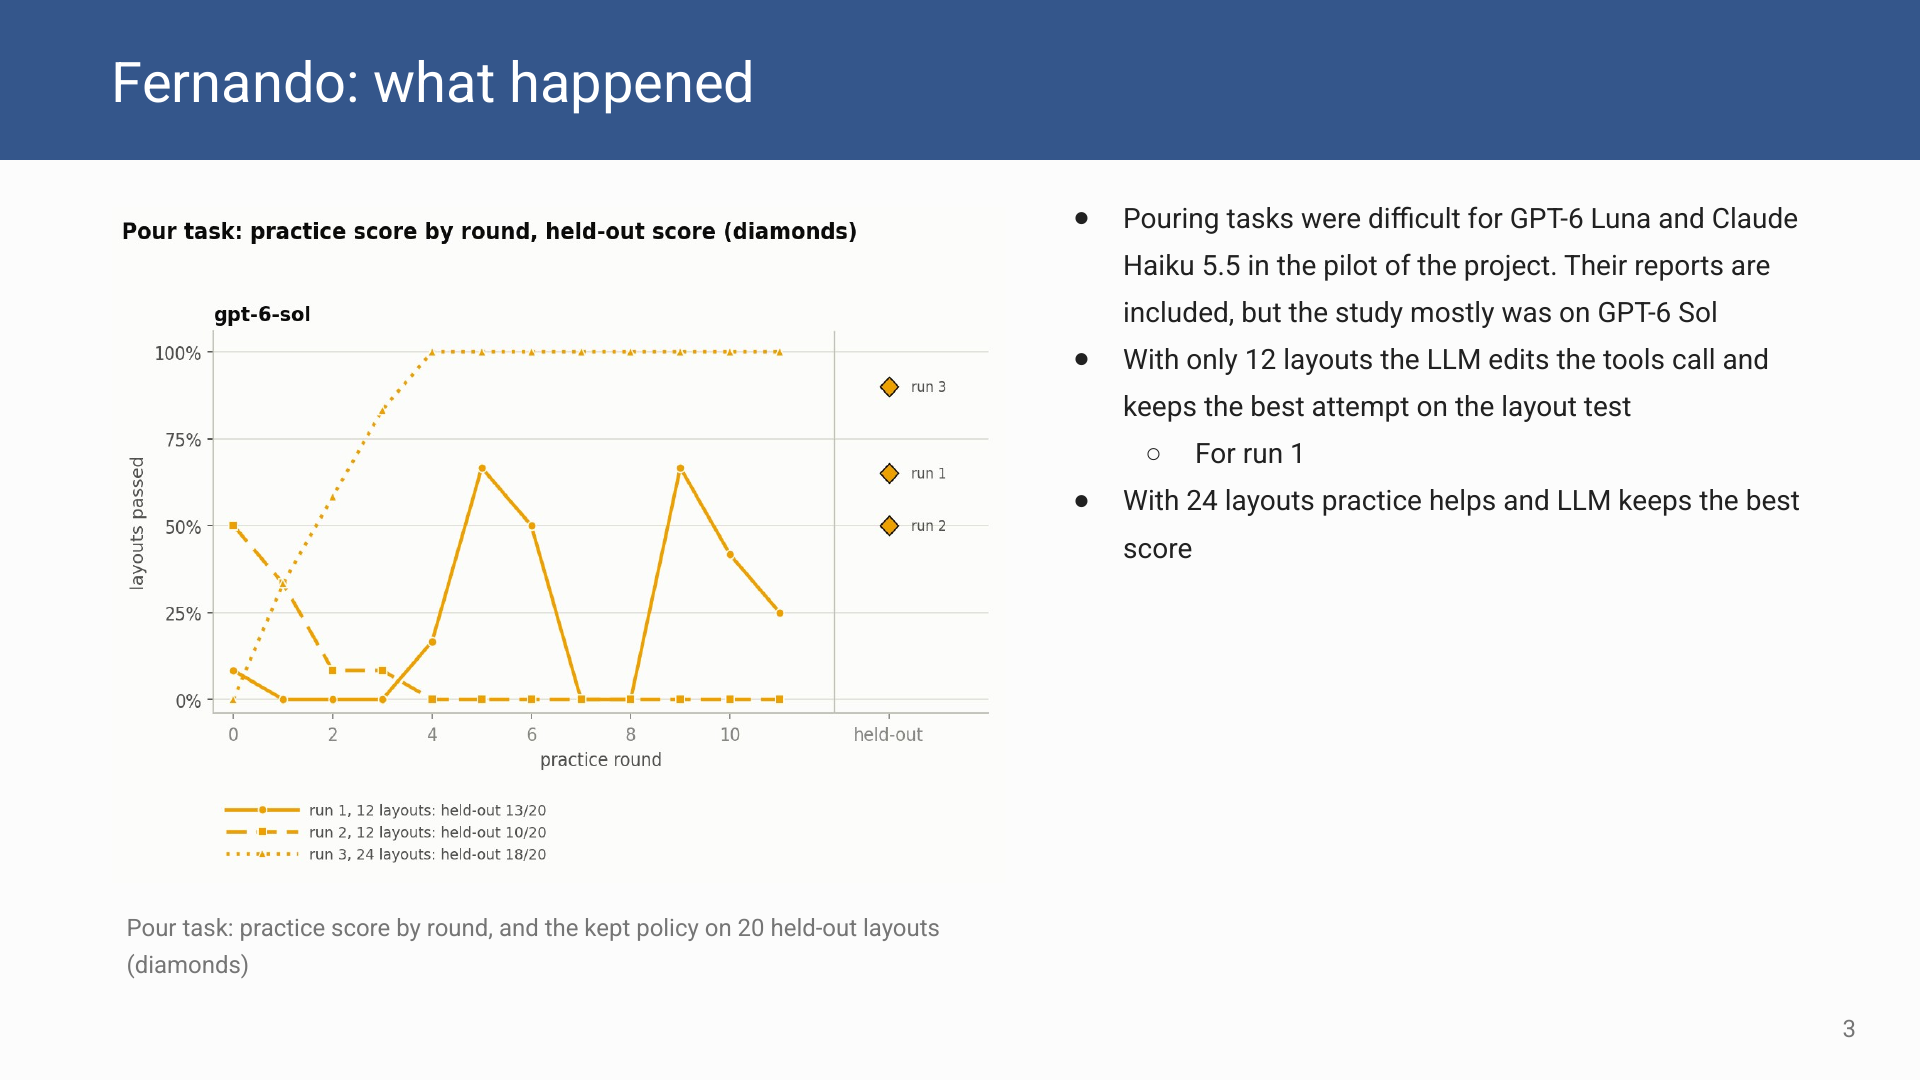
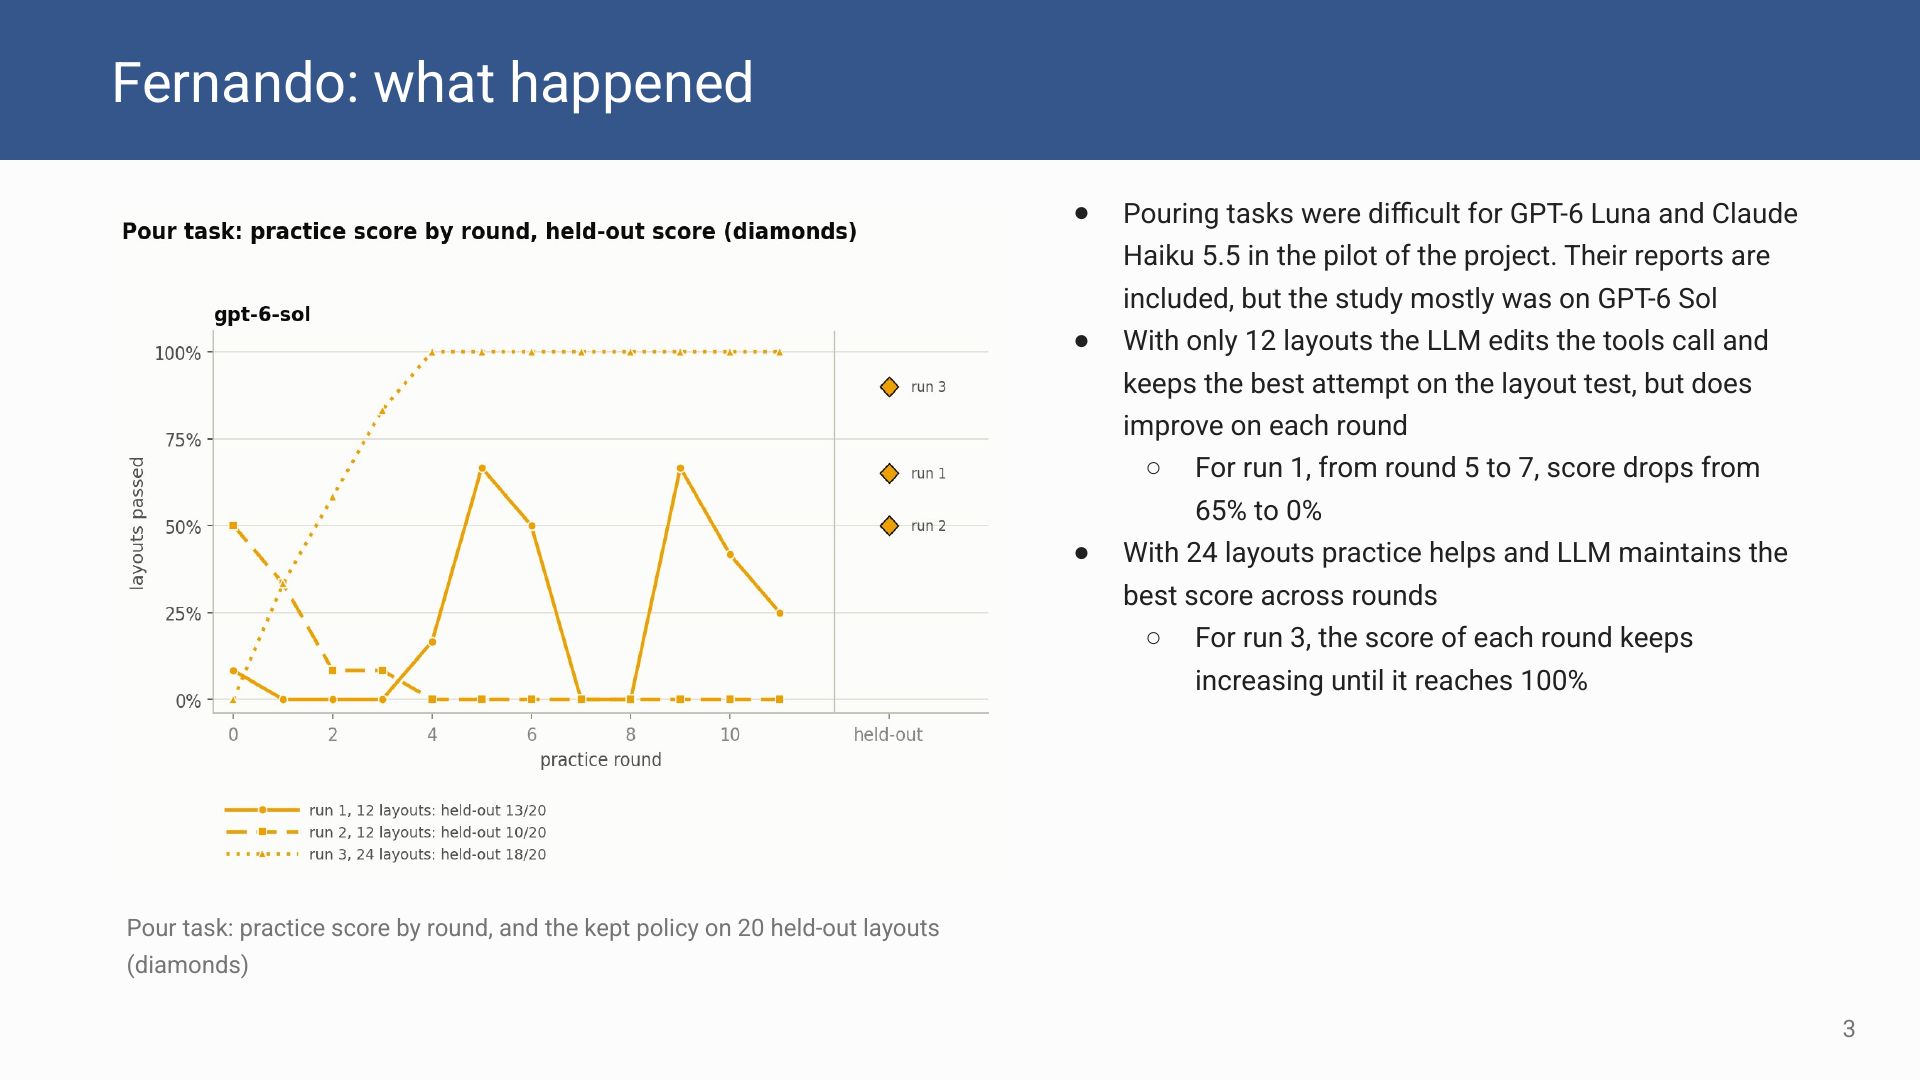
Slide 3: Fernando's new run notes; slide 8: "answers" instead of "calls"

Changed region(s): [[0.5625, 0.1833, 0.9375, 0.5194], [0.5938, 0.55, 0.875, 0.6417]]

diff --git a/index.html b/index.html
@@ -35,12 +35,12 @@ a { color: #34568B; }
 <main class="deck">
 <figure class="frame"><img class="slide" src="slides/slide-01.png?v=93a141df" alt="Slide 1. Robot Manipulation Evals Three student projects testing how well AI models handle hands-on robot work in simulation. Fernando Lerma Martinez Adyaa Khera Henry Williams A model writes the robot’s code A model directs each move A model checks each step MuJoCo, two YAM arms Isaac Sim, two YAM arms Isaac Sim, two ViperX arms Lab bench tasks: vials, snap caps, salt FLS peg transfer, a surgical skills test Pipette, plate grip and plate cart checks This is a presentation overview of three projects members of our team have worked on since coming together last month to build up our application Our experience in robotics goes greatly beyond these projects, with a healthy variety of specialties between team members, but we feel these projects are the most directly relevant as it shows our collaboration as a team You will find more detailed links for these projects at the end of the document if you are interested to look further" width="1920" height="1080"></figure>
 <figure class="frame"><img class="slide" src="slides/slide-02.png?v=3140a347" alt="Slide 2. Fernando: LLM writes the robot’s code based on feedback Can an AI model get better at a lab task by practicing? Self-evolving Code-as-policy, based on SEAR paper. The LLM model writes the program to run two simulated YAM arms, is given details of previous round as feedback It practices in 12 rounds on different layouts (variations of the same task scenario). There are 12 or 24 layouts tested on each round. Layouts are kept between rounds After the final round the program with the best score is tested once on 20 layouts it never saw Tasks: move a vial, open a snap cap, weigh out salt with both arms Setup MuJoCo 3.5, on A10 nodes of Purdue’s Gilbreth cluster Two I2RT YAM arms (MuJoCo Menagerie model) GPT-6 Luna, GPT-6 Sol, Claude Haiku 5.5 Weighing task and open a snap-cap tube, hand-written reference solution, 6× speed" width="1920" height="1080" loading="lazy"><img class="clip" src="clips/slide-02-clip-1.gif?v=2ec4eee4" alt="Two simulated YAM arms pass a vial of salt between them and pour it onto a balance" loading="lazy" style="left:64.863%;top:16.853%;width:29.166%;height:38.888%"><img class="clip" src="clips/slide-02-clip-2.gif?v=6313285a" alt="Clip from the slide" loading="lazy" style="left:64.863%;top:57.778%;width:29.166%;height:38.889%"><a class="hit" href="https://sear.bot/" target="_blank" rel="noopener" aria-label="Open link: https://sear.bot/" style="left:27.641%;top:31.081%;width:3.720%;height:2.548%"></a></figure>
-<figure class="frame"><img class="slide" src="slides/slide-03.png?v=40e24d15" alt="Slide 3. Fernando: what happened Pouring tasks were difficult for GPT-6 Luna and Claude Haiku 5.5 in the pilot of the project. Their reports are included, but the study mostly was on GPT-6 Sol With only 12 layouts the LLM edits the tools call and keeps the best attempt on the layout test For run 1 With 24 layouts practice helps and LLM keeps the best score Pour task: practice score by round, and the kept policy on 20 held-out layouts (diamonds)" width="1920" height="1080" loading="lazy"></figure>
+<figure class="frame"><img class="slide" src="slides/slide-03.png?v=710ae53a" alt="Slide 3. Fernando: what happened Pouring tasks were difficult for GPT-6 Luna and Claude Haiku 5.5 in the pilot of the project. Their reports are included, but the study mostly was on GPT-6 Sol With only 12 layouts the LLM edits the tools call and keeps the best attempt on the layout test, but does improve on each round For run 1, from round 5 to 7, score drops from 65% to 0% With 24 layouts practice helps and LLM maintains the best score across rounds For run 3, the score of each round keeps increasing until it reaches 100% Pour task: practice score by round, and the kept policy on 20 held-out layouts (diamonds)" width="1920" height="1080" loading="lazy"></figure>
 <figure class="frame"><img class="slide" src="slides/slide-04.png?v=9dbf3837" alt="Slide 4. Fernando: what we learned Takeaways Practice helped Pouring was the hard part, and only Sol came close to the hand-written reference Moving a vial was too easy to show anything With 24 layouts, it improved and the best score was kept, probably because More feedback A “lucky” round is less probable to be kept Limitations The model got exact positions from the simulator, not camera images Everything ran in simulation, with a few runs per setup Pouring salt, hand-written reference solution, 6× speed What next? More layouts &amp; models Use these scripts to collect camera demonstrations and fine-tune a vision-language-action model, starting with the hand-over, which already works every time" width="1920" height="1080" loading="lazy"><img class="clip" src="clips/slide-04-clip-1.gif?v=c9be5d26" alt="Clip from the slide" loading="lazy" style="left:64.960%;top:17.037%;width:30.321%;height:40.428%"></figure>
 <figure class="frame"><img class="slide" src="slides/slide-05.png?v=c7d1d633" alt="Slide 5. Adyaa: Can AI Models Pass A Surgical Test? Can AI models control a pair of manipulators and pass a surgical skills test from photos alone? The Setup Two YAM arms in Isaac Sim perform the peg transfer from the surgeons’ Fundamentals of Laparoscopic Surgery exam; 6 pegs, 12 transfers Two models (OpenAI’s GPT-6.1 Sol and Anthropic’s Claude Opus 5.5) tested against each other and a stand-in model for accuracy and performance Each turn the model sees an overhead photo with a millimetre grid + wrist camera photos The models decide each pick, a mid-air transfer and a place, then a controller moves the arms One transfer by Claude Opus 5.5, 2× speed Isaac Sim 6.0.1, run on A10 nodes of Purdue’s Gilbreth cluster Two I2RT YAM arms GPT-6.1 Sol and Claude Opus 5.5, medium thinking 3 rounds per model, plus 3 scripted baseline runs FLS Instructions and Guidelines. Source: FLS Manual Skills Written Instructions and Performance Guidelines" width="1920" height="1080" loading="lazy"><img class="clip" src="clips/slide-05-clip-1.gif?v=5c7ce15b" alt="Two black YAM arms pass a red triangle mid-air and place it on a peg" loading="lazy" style="left:62.917%;top:20.197%;width:31.250%;height:31.296%"><a class="hit" href="https://www.flsprogram.org/wp-content/uploads/2014/03/Revised-Manual-Skills-Guidelines-February-2014.pdf" target="_blank" rel="noopener" aria-label="Open link: https://www.flsprogram.org/wp-content/uploads/2014/03/Revised-Manual-Skills-Guidelines-February-2014.pdf" style="left:85.249%;top:90.262%;width:10.053%;height:2.521%"></a><a class="hit" href="https://www.flsprogram.org/wp-content/uploads/2014/03/Revised-Manual-Skills-Guidelines-February-2014.pdf" target="_blank" rel="noopener" aria-label="Open link: https://www.flsprogram.org/wp-content/uploads/2014/03/Revised-Manual-Skills-Guidelines-February-2014.pdf" style="left:62.581%;top:93.280%;width:28.511%;height:2.521%"></a></figure>
 <figure class="frame"><img class="slide" src="slides/slide-06.png?v=d80956f5" alt="Slide 6. Adyaa: Results? In our runs, Claude Opus 5.5 did better because it chained several actions in one turn. GPT-6.1 Sol placed the pegs more precisely but used one action per turn and ran out of turns every time. Rounds 1 to 3   Scripted baseline   GPT-6.1 Sol   Claude Opus 5.5 Transfers done, of 12   12, 12, 12   6, 5, 5   12, 10, 12 Actions per turn   3.0   1.0   3.1 to 4.6 Mean placement error   0 mm   1.2 to 2.9 mm   3.0 to 4.8 mm Reward, of 100   76.1, 74.6, 75.9   50.1, 46.0, 45.1   67.0, 51.4, 58.3 Cost for 3 rounds   $0   $0.33   $2.44 Model performance vs time for both the models, three rounds each. Opus 5.5 is capable of making a speedy recovery even after huge negative rewards whereas GPT-6.1 Sol recovers slowly. Opus 5.5 leads every round by a huge margin. Same three boards for every column. Different peg orientation every time" width="1920" height="1080" loading="lazy"></figure>
 <figure class="frame"><img class="slide" src="slides/slide-07.png?v=6d0515bb" alt="Slide 7. Adyaa: What did we learn? Both models stayed below the scripted baseline of 76. Best run was rewarded 67.0 by Claude Opus 5.5, round 1 Both got slightly better but the reward didn’t increase as changed orientations caused more contacts. Limits The model got photos and word feedback only, no depth or coordinates One run per round, on three boards, different peg orientations each board Next Version 3: no grid, an angled camera like a laparoscope, and both arms working at once All runs in a comparison view. The left panels are GPT-6.1 Sol and the right are Claude Opus 5.5. GPT-6.1 Sol always ends early because of not chaining actions. What the model sees each turn, first turn to last" width="1920" height="1080" loading="lazy"><img class="clip" src="clips/slide-07-clip-1.gif?v=2c1c3533" alt="The overhead photo of the peg board with a millimetre grid, as the model saw it at each turn" loading="lazy" style="left:10.237%;top:67.976%;width:40.129%;height:26.396%"><img class="clip" src="clips/slide-07-clip-2.gif?v=9eabcfe6" alt="Clip from the slide" loading="lazy" style="left:65.375%;top:19.259%;width:31.291%;height:53.672%"></figure>
-<figure class="frame"><img class="slide" src="slides/slide-08.png?v=e8869773" alt="Slide 8. Henry: Can a small vision model tell when a lab robot’s step went wrong? Tested across 3 checks: Pipette and well plate Two-arm plate grip Plate on a cart A wrong yes dispenses onto the plate, not into the well A wrong yes moves a plate that isn’t held evenly A wrong yes moves on with a plate that isn’t seated Isaac Sim · 507 images · 8 camera views · GPT-6 Luna and Claude Haiku 5.5 · 3 prompts × 3 thinking levels · 9,126 calls Next two slides: first, how frequently each model admits it can’t tell, at different thinking levels. Then, how sensitive each model is to the prompt, at different thinking levels." width="1920" height="1080" loading="lazy"></figure>
+<figure class="frame"><img class="slide" src="slides/slide-08.png?v=e20626b5" alt="Slide 8. Henry: Can a small vision model tell when a lab robot’s step went wrong? Tested across 3 checks: Pipette and well plate Two-arm plate grip Plate on a cart A wrong yes dispenses onto the plate, not into the well A wrong yes moves a plate that isn’t held evenly A wrong yes moves on with a plate that isn’t seated Isaac Sim · 507 images · 8 camera views · GPT-6 Luna and Claude Haiku 5.5 · 3 prompts × 3 thinking levels · 9,126 answers Next two slides: first, how frequently each model admits it can’t tell, at different thinking levels. Then, how sensitive each model is to the prompt, at different thinking levels." width="1920" height="1080" loading="lazy"></figure>
 <figure class="frame"><img class="slide" src="slides/slide-09.png?v=2241ac30" alt="Slide 9. Henry: Luna and Haiku’s ability to disclose limitations Figure 1. A breakdown of “can’t tell” as an answer by thinking levels and model Figure 2. Example images for checks 1, 2, and 3 respectively for when there is not enough information Baseline was larger models and human reviewers that were tested to see whether they can conclude enough information from either of the scenes. When the camera can’t show the answer, the models often answer anyway. Haiku was more willing to say “can’t tell”, most clearly on the pipette overhead view (98.6% against 0% for Luna). The models answered most when the picture gave them something to go on." width="1920" height="1080" loading="lazy"></figure>
 <figure class="frame"><img class="slide" src="slides/slide-10.png?v=02a9e953" alt="Slide 10. Henry: Prompt sensitivity Haiku is very sensitive to the prompt. With the safety warning it approved almost nothing in all three checks, good steps included. Luna barely reacts when the camera shows the answer. It still approved 13 of 30 bad tips under the safety warning. With thinking off, the prompt works better on Luna. On the hidden overhead view its wrong approvals fell from 13 to 0, versus 21 to 11 at high thinking. P0 base prompt · P2 adds a “can’t tell” sentence · P5 adds a warning that the materials are hazardous. A later, separate run at max thinking approved 59 of 60, including all 30 not in a well." width="1920" height="1080" loading="lazy"></figure>
 <figure class="frame"><img class="slide" src="slides/slide-11.png?v=303bc1c9" alt="Slide 11. Tools across the three projects Fernando   Adyaa   Henry Simulator   MuJoCo 3.5   Isaac Sim   Isaac Sim Robot   Two I2RT YAM arms   Two I2RT YAM arms   ViperX 300 Models   GPT-6 Luna, GPT-6 Sol, Claude Haiku 5.5, Qwen3.8-27B   GPT-6.1 Sol, Claude Opus 5.5   GPT-6 Luna, Claude Haiku 5.5 Scoring   20 held-out layouts per run, against a hand-written reference   Transfers, reward and contacts, against a scripted baseline   Answer key from the 3D geometry All three: jobs on A10 GPU nodes of Purdue’s Gilbreth cluster." width="1920" height="1080" loading="lazy"></figure>
